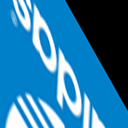
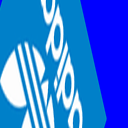
affine with transparent background 3

diff --git a/transparency.py b/transparency.py
@@ -15,10 +15,10 @@ def createAffineTransformation(img, i):
     rows, cols, ch = img.shape
     
     M = cv2.getAffineTransform(pts1, pts2)
-    dst = cv2.warpAffine(img, M, (cols, rows), flags=cv2.INNER_CUBIC, borderMode=BORDER_TRANSPARENT)
+    dst = cv2.warpAffine(img, M, (cols, rows), flags=cv2.INTER_CUBIC, borderMode=cv2.BORDER_CONSTANT, borderValue=[0, 0, 0, 0])
     
     filename = "adidas_affine_" + str(i) + ".png"
-    cv2.imwrite(filename, dst, -1)
+    cv2.imwrite(filename, dst)
 
 def medianBlurring(img, i): # i can only be odd!!!!! Its kernel size should be a positive odd integer.
     kernel = np.ones((5,5),np.float32)/25
@@ -41,11 +41,7 @@ def morphologicalTransform(img, i):
 if __name__ == "__main__":
     # load the games image
     print("Starting program")
-    img = cv2.imread("adidas1.png")
-    b_channel, g_channel, r_channel = cv2.split(img)
-    alpha_channel = b_channel
-    img_RGBA = cv2.merge((b_channel, g_channel, r_channel, alpha_channel))
-    print(img_RGBA.shape)
+    img = cv2.imread("adidas1.png", cv2.IMREAD_UNCHANGED)
     for i in range(0, 30):
         print("For loop 1 iteration " + str(i))
         createAffineTransformation(img, i)

diff --git a/Main.py b/Main.py
@@ -15,7 +15,7 @@ def createAffineTransformation(img, i):
     rows, cols, ch = img.shape
     
     M = cv2.getAffineTransform(pts1, pts2)
-    dst = cv2.warpAffine(img, M, (cols, rows), flags=cv2.INTER_CUBIC, borderMode=cv2.BORDER_CONSTANT, borderValue=[0, 0, 0, 0])
+    dst = cv2.warpAffine(img, M, (cols, rows), flags=cv2.INTER_CUBIC, borderMode=cv2.BORDER_CONSTANT, borderValue=255)
     
     filename = "adidas_affine_" + str(i) + ".png"
     cv2.imwrite(filename, dst)
